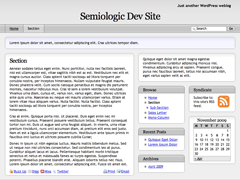
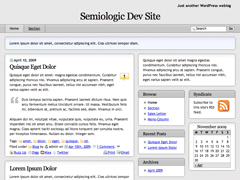
green tweaks + screenshots
git-svn-id: file:///Users/michaelkoepke/svn/semiologic@3297 6c9c31c4-cb3d-4424-af3d-876279169c7e

diff --git a/skins/boxed-green/trunk/skin.css b/skins/boxed-green/trunk/skin.css
@@ -355,19 +355,19 @@ html {
 
 /*
  * Scheme Colors
- * H120 S95 L40
+ * H120 S95 L45
  */
 
 #navbar,
 .widget_calendar thead,
 .widget_title h2 {
-	background-color: #056e05; /* - */
+	background-color: #067d06; /* - */
 	color: #fff;
 }
 
 #footer,
 .widget_calendar tfoot {
-	background-color: #94f794; /* L90 */
+	background-color: #b6f0b6; /* L90 */
 	color: #000;
 }
 
@@ -391,11 +391,11 @@ html {
 
 #navbar,
 #go {
-	border-color: #033803; /* B/2 */
+	border-color: #033d03; /* B/2 */
 }
 
 #footer,
 .widget_calendar thead,
 .widget_title h2 {
-	border-color: #383838; /* B/2 S0 */
+	border-color: #3d3d3d; /* B/2 S0 */
 }

diff --git a/skins/copywriter-green/trunk/skin.css b/skins/copywriter-green/trunk/skin.css
@@ -352,7 +352,7 @@ Author uri: http://www.mesoconcepts.com
 
 /*
  * Scheme Colors
- * H120 S95 L40 needs update
+ * H120 S95 L45 needs update
  */
 
 #navbar,

diff --git a/skins/shades-green/trunk/skin.css b/skins/shades-green/trunk/skin.css
@@ -254,7 +254,7 @@ a:hover,
 
 /*
  * Scheme Colors
- * H120 S95 L40 needs update
+ * H120 S95 L45 needs update
  */
 
 #wrapper,

diff --git a/skins/classic-green/trunk/skin.css b/skins/classic-green/trunk/skin.css
@@ -309,7 +309,7 @@ html {
 
 /*
  * Scheme Colors
- * H120 S95 L40 needs update
+ * H120 S95 L45 needs update
  */
 
 #navbar,

diff --git a/skins/classy-green/trunk/skin.css b/skins/classy-green/trunk/skin.css
@@ -332,7 +332,7 @@ html {
 
 /*
  * Scheme Colors
- * H120 S95 L40 needs update
+ * H120 S95 L45 needs update
  */
 
 #navbar,

diff --git a/skins/kubrick-green/trunk/skin.css b/skins/kubrick-green/trunk/skin.css
@@ -260,7 +260,7 @@ html {
 
 /*
  * Scheme Colors
- * H120 S95 L40 needs update
+ * H120 S95 L45 needs update
  */
 
 #header,

diff --git a/skins/light-green/trunk/skin.css b/skins/light-green/trunk/skin.css
@@ -301,7 +301,7 @@ html,
 
 /*
  * Scheme Colors
- * H120 S95 L40 needs update
+ * H120 S95 L45 needs update
  */
 
 #navbar,
